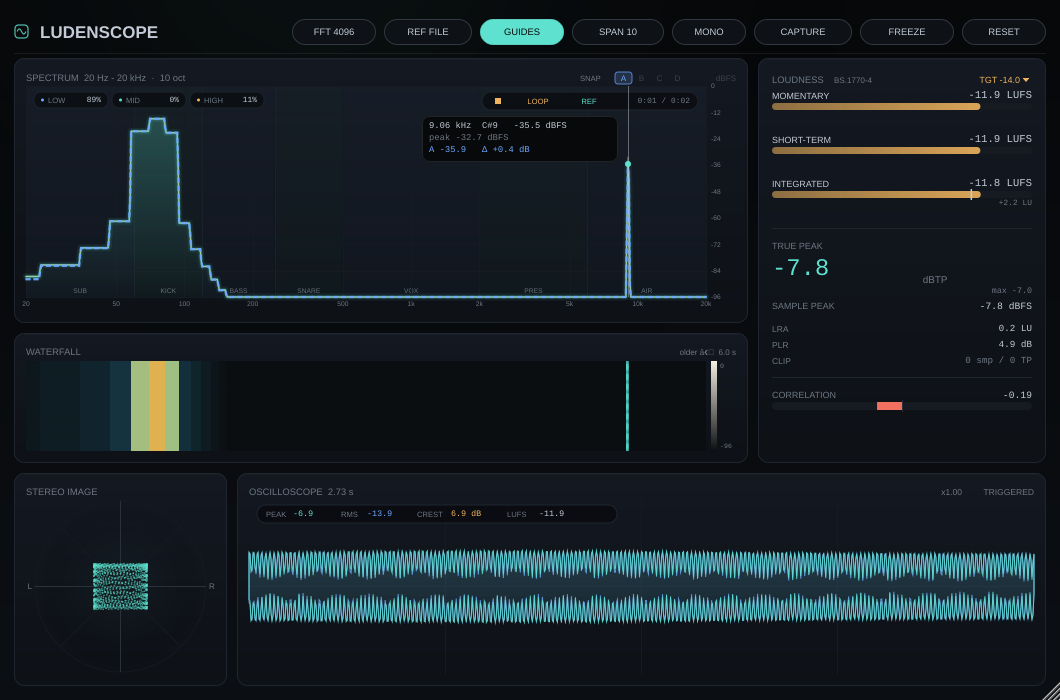
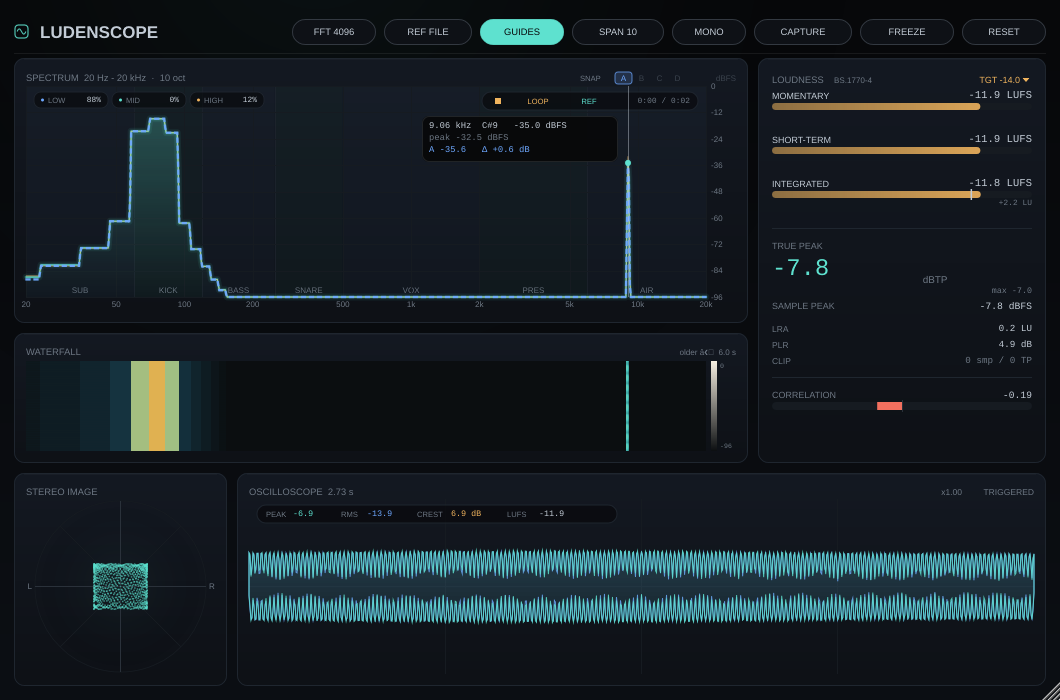
guides: larger zone labels; RESET clears only the selected snapshot
- the zone names under the spectrum grow from 7.5 to 9 px and get one more
  pixel of row height, so SUB/KICK/BASS/... are readable at a glance
- RESET no longer wipes every FFT slot: it clears only the slot currently
  selected in the SNAP row, keeping the other comparisons intact
- the processor gains a single-slot clearSnapshot() for that

diff --git a/Source/ui/SpectrumView.h b/Source/ui/SpectrumView.h
@@ -298,10 +298,10 @@ public:
                 if (soloed)
                     g.drawVerticalLine ((int) std::round (x1), plot.getY(), plot.getBottom());
 
-                g.setFont (theme::labelFont (7.5f));
+                g.setFont (theme::labelFont (9.0f));
                 g.setColour (soloed ? theme::accent : theme::textDim.withAlpha (0.9f));
                 g.drawText (zone.name,
-                            juce::Rectangle<float> (x0, plot.getBottom() - 11.0f, x1 - x0, 10.0f),
+                            juce::Rectangle<float> (x0, plot.getBottom() - 12.0f, x1 - x0, 11.0f),
                             juce::Justification::centred);
             }
         }

diff --git a/Source/PluginProcessor.cpp b/Source/PluginProcessor.cpp
@@ -313,6 +313,15 @@ void LudensScopeProcessor::clearSnapshots() noexcept
     snapshotGenerationValue.fetch_add (1);
 }
 
+void LudensScopeProcessor::clearSnapshot (int slot) noexcept
+{
+    if (slot < 0 || slot >= snapshotSlots)
+        return;
+
+    snapshotFilled[(size_t) slot] = false;
+    snapshotGenerationValue.fetch_add (1);
+}
+
 int LudensScopeProcessor::selectedSnapshot() const noexcept
 {
     return selectedSnapshotValue.load();

diff --git a/Source/PluginEditor.cpp b/Source/PluginEditor.cpp
@@ -852,10 +852,9 @@ void LudensScopeEditor::resetDisplay()
     spectrumView.setReference (nullptr, false);
     spectrogramView.clear();
 
-    for (auto& filled : snapshotFilled)
-        filled = false;
+    if (processor.isSnapshotFilled (snapshotSlot))
+        processor.clearSnapshot (snapshotSlot);
 
-    processor.clearSnapshots();
     syncSnapshots();
 
     processor.clearReferenceAudio();

diff --git a/Source/PluginProcessor.h b/Source/PluginProcessor.h
@@ -77,6 +77,7 @@ public:
     bool isSnapshotFilled (int slot) const noexcept;
     const float* snapshotLevels (int slot) const noexcept;
     void clearSnapshots() noexcept;
+    void clearSnapshot (int slot) noexcept;
     int selectedSnapshot() const noexcept;
     void setSelectedSnapshot (int slot) noexcept;
     int snapshotGeneration() const noexcept;

diff --git a/README.md b/README.md
@@ -92,7 +92,7 @@ cmake --build --preset dev -j$(nproc)
    а после загрузки на спектре появляется транспорт (play/stop, `LOOP`, `A/B`,
    время); громкость референса подгоняется под текущий integrated микса. Файлы
    длиннее 10 минут обрезаются. `FREEZE` — стопор кадров, `RESET` — сброс
-   пиков, громкости, снапшотов, референса и счётчиков. В меню `FFT` есть
+   пиков, громкости, выбранного снапшота, референса и счётчиков. В меню `FFT` есть
    экспорт снапшотов в CSV (бин, частота, уровни A–D).
 
 ## macOS + Cubase
